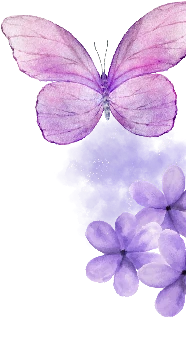
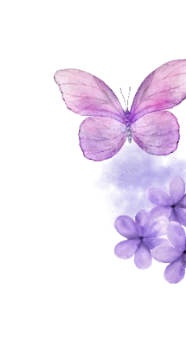
feat: Add new designs

diff --git a/index.html b/index.html
@@ -46,7 +46,7 @@
     const app = document.getElementById('app');
 
     const guestModal = initGuestModal({
-      scriptURL: 'listadeinvitadosvirilili',
+      scriptURL: 'listadeinvitadossofi',
       title: 'Lista de invitados',
       description: 'Déjanos tu nombre, cuántas personas vienen y un mensaje opcional.',
       decorTopCenterSrc: './images/flowerstopcenter.webp',
@@ -93,7 +93,7 @@ const player = initAudioPlayer({
             { kind: "html", html: "<div style='height:7vh'></div>" },
             {
               kind: "image",
-              src: "./images/intro.webp",
+              src: "./images/main.webp",
               alt: "Imagen principal",
               variant: "principal"   // 👈 ocupará ~70% del alto
             }
@@ -103,14 +103,14 @@ const player = initAudioPlayer({
       {
         background: '',                         // sin fondo
         leftCenter: './images/butterfliesleftbig.webp', // decorativo lateral
-
+        rightCenter:'./images/butterflieright.webp',
         stack3: {
           gap: "10px",
           items: [
             { kind: "image", src: "./images/church.webp", alt: "Cuadrada", variant: "square" },
             {
               kind: "buttonImage",
-              src: "./images/mapbutton.webp",
+              src: "./images/mapbutton2.webp",
               alt: "Iglesia",
               variant: "wideText",
               onClick: () => window.open('https://maps.app.goo.gl/9SKv1Xc23EsZLbDQ6', '_blank')
@@ -122,7 +122,9 @@ const player = initAudioPlayer({
       {
         // sin fondo ni parallax
         background: '',
+        topLeft: './images/butterflielefttop.webp',
         rightCenter: './images/butterfliesrightbig.webp',
+        //leftCenter: './images/butterfliesleftbig.webp', // decorativo lateral
 
         // el stack crece por contenido (quita heights/width)
         stack3: {
@@ -135,7 +137,7 @@ const player = initAudioPlayer({
             // 3) botón (letrero ancho) con su onClick intacto
             {
               kind: "buttonImage",
-              src: "./images/mapbutton.webp",
+              src: "./images/mapbutton2.webp",
               alt: "Salón",
               variant: "wideText",
               onClick: () => window.open('https://maps.app.goo.gl/MocggLhSqwr6Aj3H7', '_blank')
@@ -147,7 +149,8 @@ const player = initAudioPlayer({
       {
         // sin fondo ni parallax
         background: '',
-        leftCenter: './images/butterfliesleftbig.webp',
+        leftCenter: './images/scheduleleft.webp',
+        rightCenter: './images/scheduleright.webp',
 
         // el stack crece por contenido (quita heights/width)
         stack3: {
@@ -167,20 +170,22 @@ const player = initAudioPlayer({
         // sin fondo ni parallax; dejamos las decoraciones absolutas
         background: './images/bottombackground.webp',
         bottomCenter: './images/bottombackground.webp',
+        topLeft:'./images/butterflielefttop.webp',
+        topRight:'./images/butterflielefttop2.webp',
 
         stack3: {
           gap: "16px",               // un poco más de aire en el bloque final
           items: [
             { kind: "html", html: "<div style='height:1vh'></div>" },
             // 1) letrero superior
-            { kind: "image", src: "./images/dresscode.webp", alt: "Cuadrada", variant: "square" },
+            { kind: "image", src: "./images/dresscode2.webp", alt: "Cuadrada", variant: "square" },
 
             // 2) countdown (escala a ~90% del ancho base del iPhone)
 
             // 3) botón de confirmación (imagen ancha, centrada)
             {
               kind: "buttonImage",
-              src: "./images/confirmbutton.webp",
+              src: "./images/confirmbutton2.webp",
               alt: "Confirmar asistencia",
               variant: "wideText",
               onClick: () => guestModal.open()

diff --git a/blocks/hero.js b/blocks/hero.js
@@ -13,7 +13,7 @@ export function createHeroBlock({
   centerNode = null,
 }) {
   const {
-    small = "18vmin",
+    small = "25vmin",
     sideH = "33vh",
     centerH = "40vh",
     bottomH = "28vh"
@@ -163,8 +163,8 @@ if (!document.getElementById(styleId)) {
       position: absolute;
       top:0;
       left:0;
-      max-width:172px ;
-      max-height:40vw;
+      width: var(--img-small);
+      height: auto;
       object-fit: contain;
       pointer-events: none;
       transform: var(--base-transform, none);
@@ -206,8 +206,8 @@ if (!document.getElementById(styleId)) {
       position: absolute;
       top: 50%;
       left: 0;
-      max-height: 200px;
-      width: auto;
+      max-height: 400px;
+      max-width: 120px;
       object-fit: contain;
       pointer-events: none;
       --base-transform: translate(0%,-50%);
@@ -218,8 +218,8 @@ if (!document.getElementById(styleId)) {
       position: absolute;
       top: 50%;
       right:0;
-      max-height:200px ;
-      max-width: 186px;
+      max-height:400px ;
+      max-width: 120px;
       object-fit: contain;
       pointer-events: none;
       z-index:1;

diff --git a/components/guestModal.js b/components/guestModal.js
@@ -186,7 +186,7 @@ body.modal-open{ overflow:hidden; touch-action:none; }
 
         <p style="margin:12px 2px 0 2px; opacity:.95;">
           ¡Gracias por confirmar!<br>
-          Te esperamos con mucha ilusión para disfrutar, divertirnos y bailar juntos. 🎉 💃🕺
+          Ahora sí, a contar los días para la fiesta, risas y mucho baile. 💃🕺
         </p>
 
         <div class="actions">
